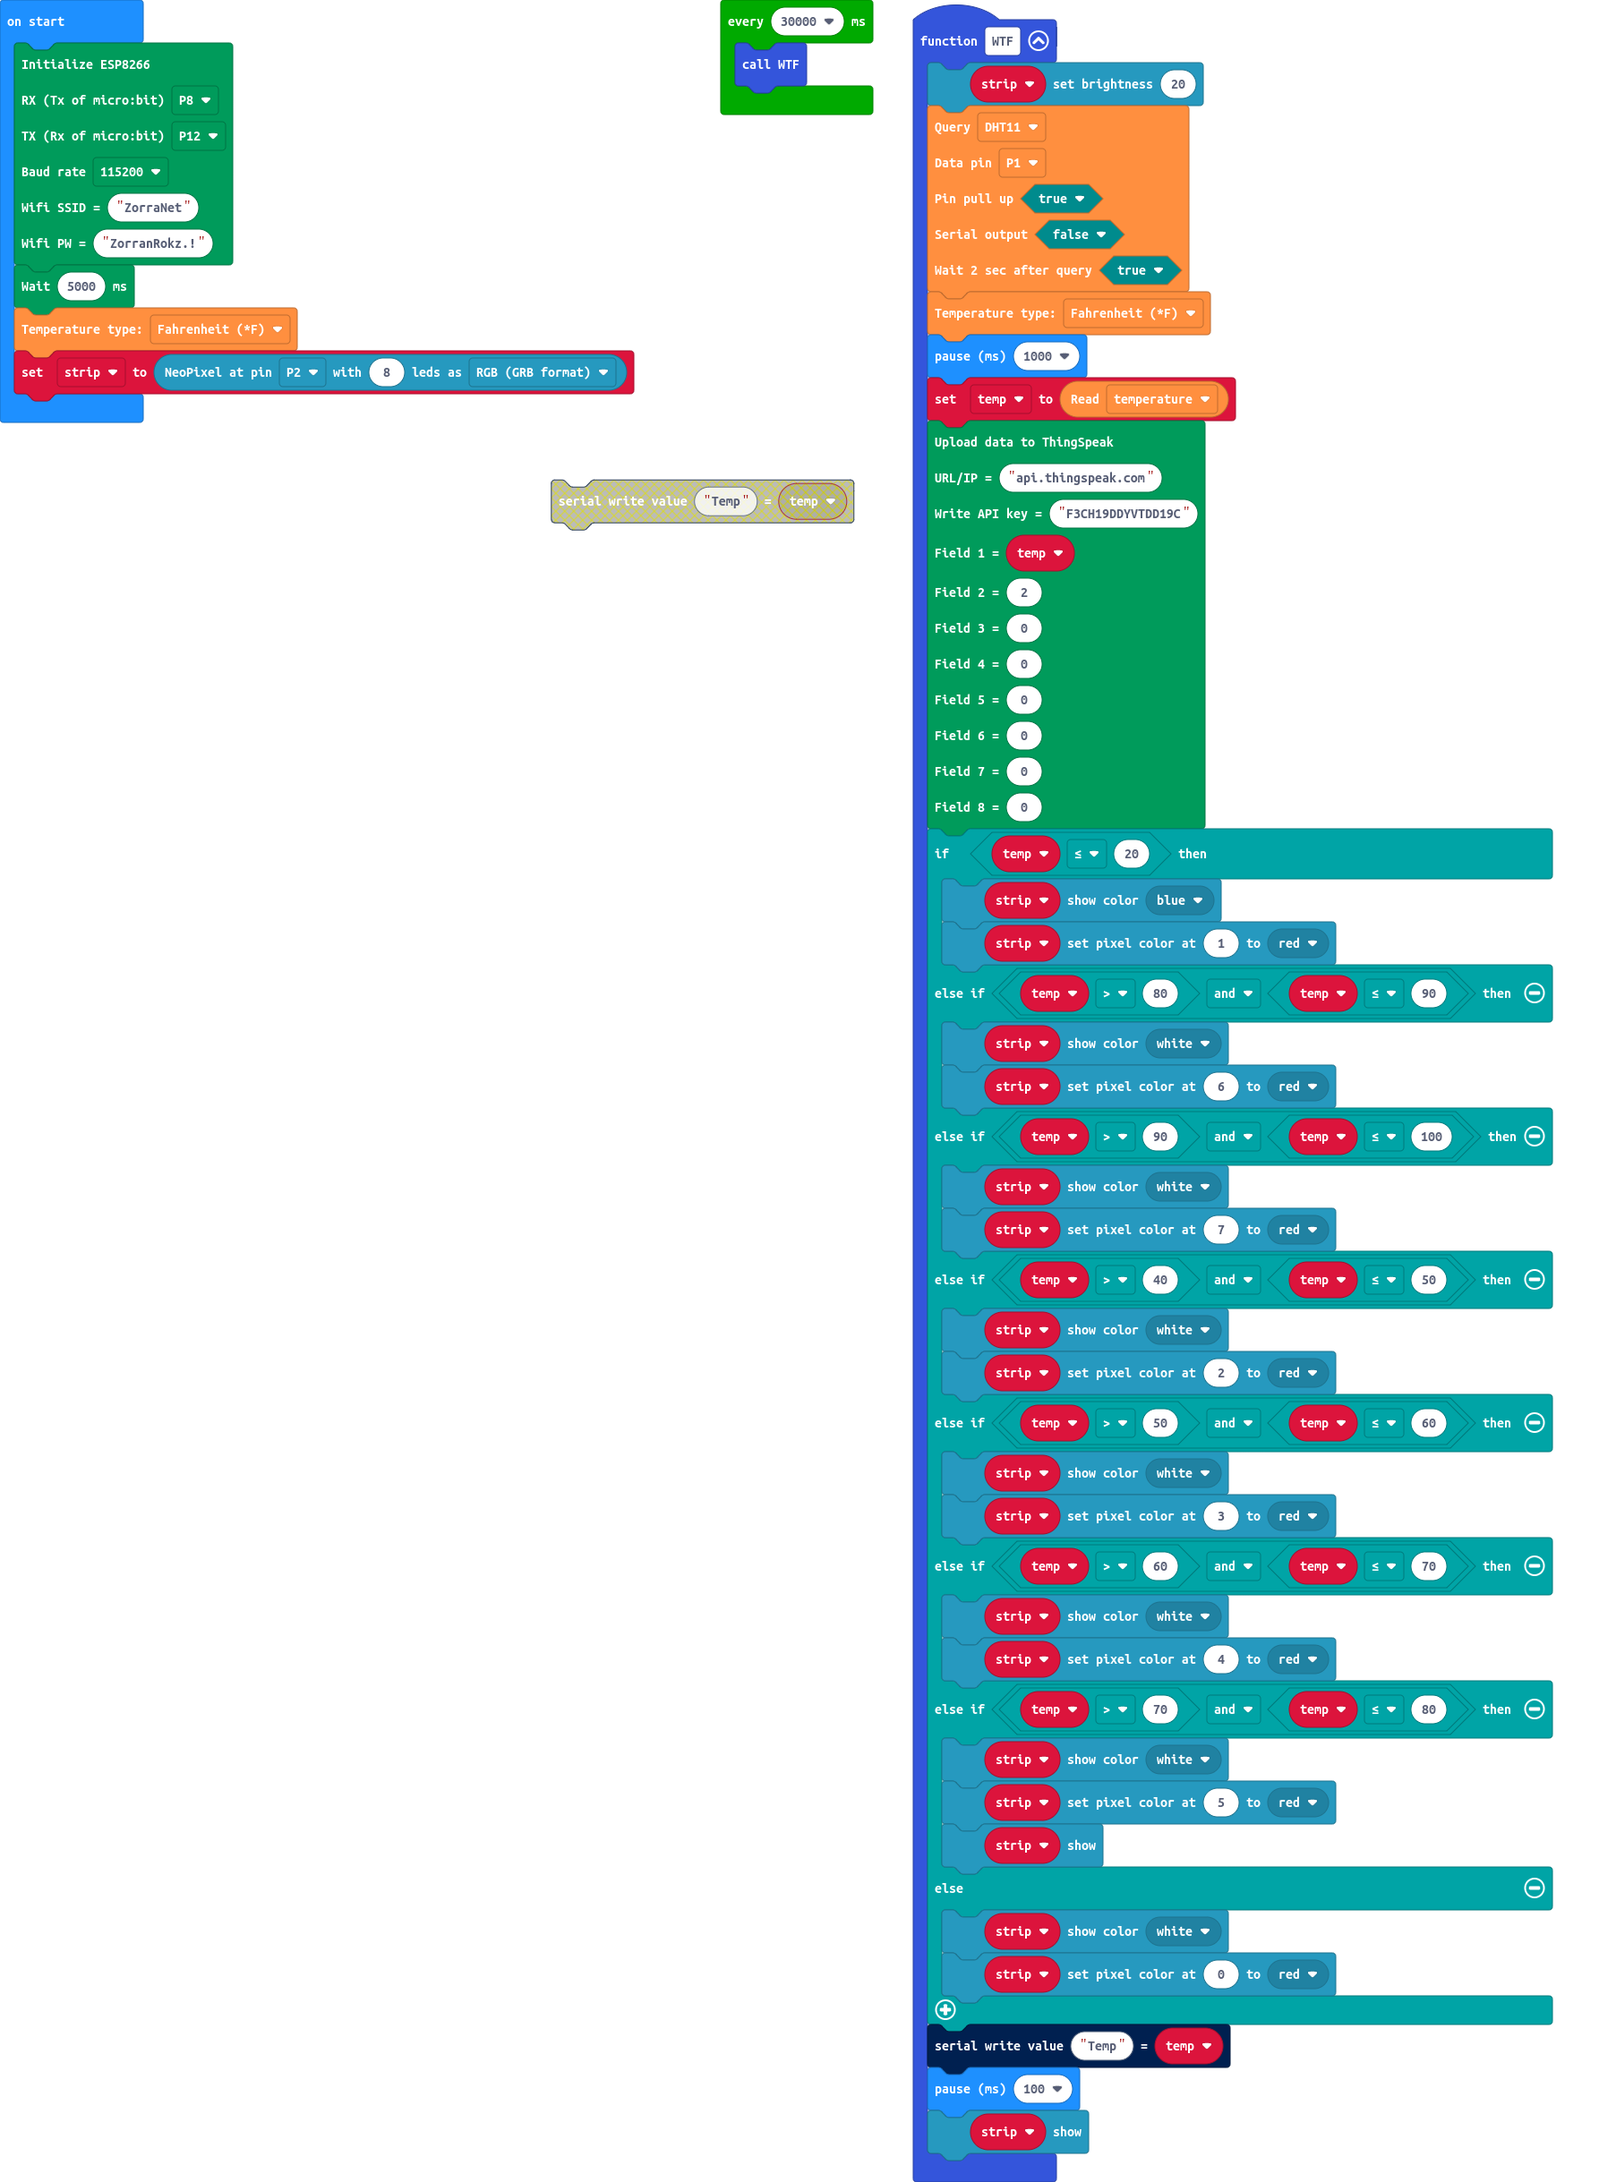
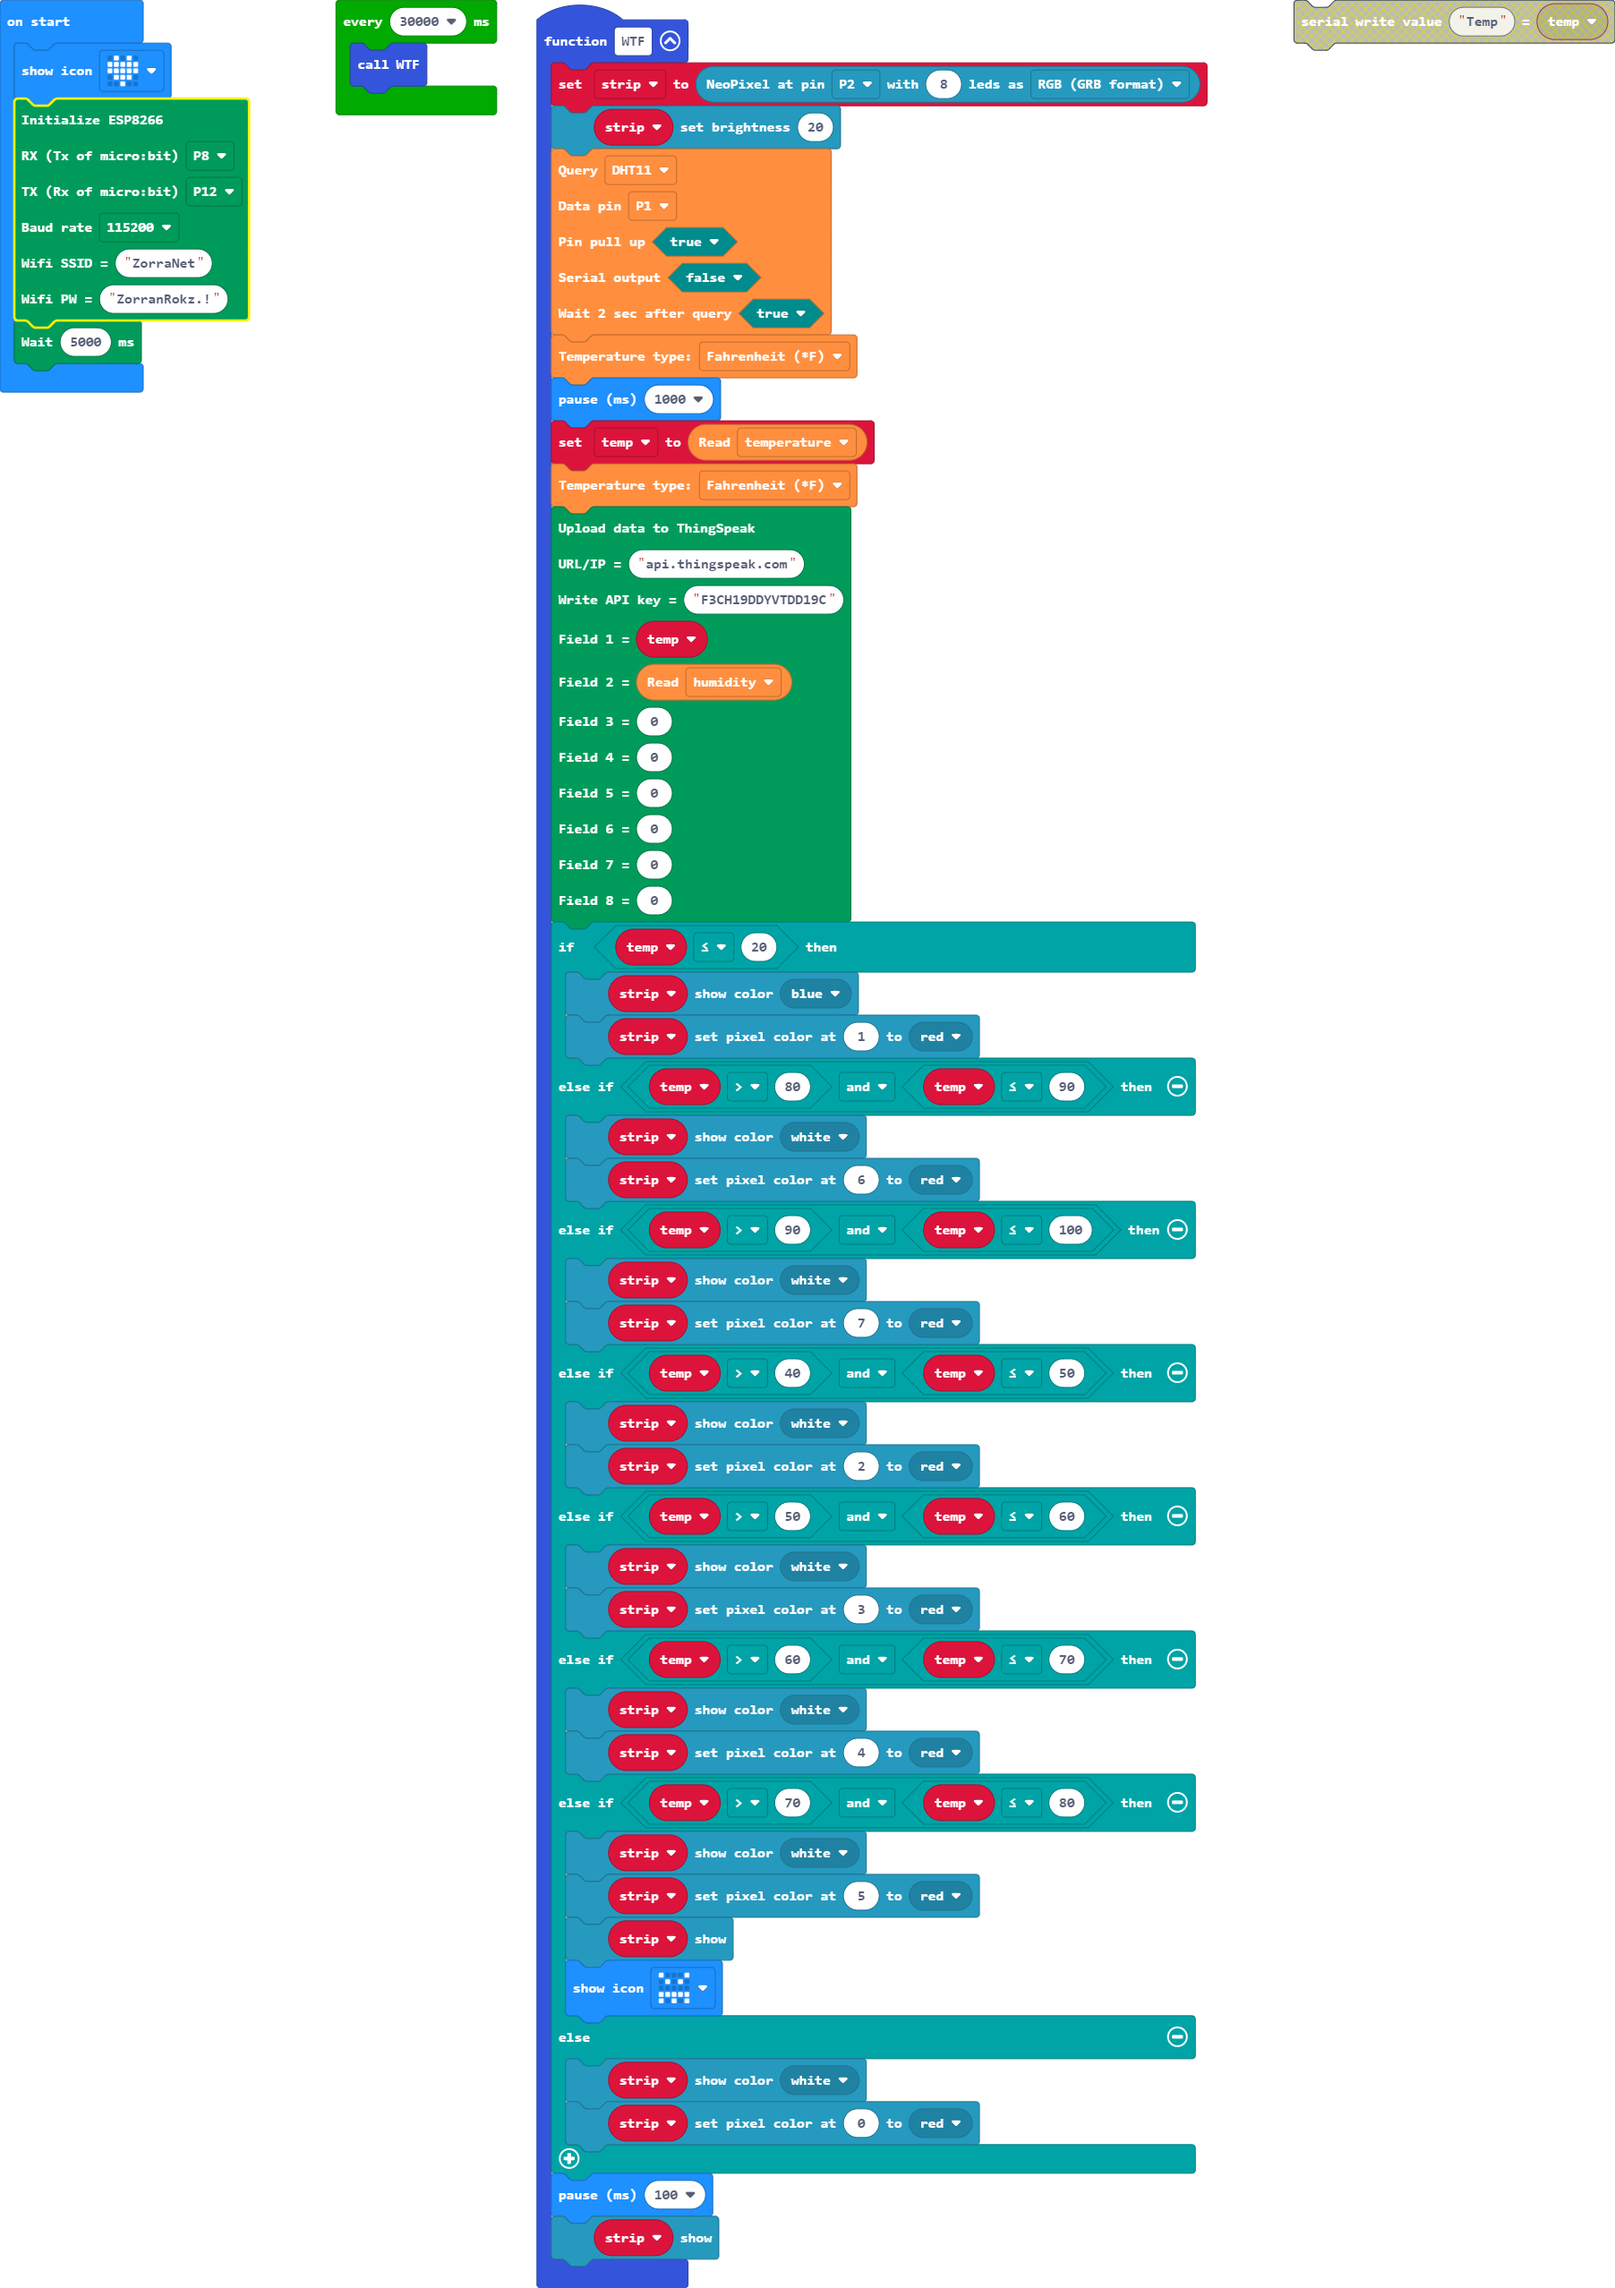
Update main.blocks, main.ts, main.py

diff --git a/main.ts b/main.ts
@@ -1,4 +1,5 @@
 function WTF () {
+    strip = neopixel.create(DigitalPin.P2, 8, NeoPixelMode.RGB)
     strip.setBrightness(20)
     dht11_dht22.queryData(
     DHTtype.DHT11,
@@ -10,11 +11,12 @@ function WTF () {
     dht11_dht22.selectTempType(tempType.fahrenheit)
     basic.pause(1000)
     temp = dht11_dht22.readData(dataType.temperature)
+    dht11_dht22.selectTempType(tempType.fahrenheit)
     ESP8266ThingSpeak.connectThingSpeak(
     "api.thingspeak.com",
     "F3CH19DDYVTDD19C",
     temp,
-    2,
+    dht11_dht22.readData(dataType.humidity),
     0,
     0,
     0,
@@ -44,16 +46,17 @@ function WTF () {
         strip.showColor(neopixel.colors(NeoPixelColors.White))
         strip.setPixelColor(5, neopixel.colors(NeoPixelColors.Red))
         strip.show()
+        basic.showIcon(IconNames.Angry)
     } else {
         strip.showColor(neopixel.colors(NeoPixelColors.White))
         strip.setPixelColor(0, neopixel.colors(NeoPixelColors.Red))
     }
-    serial.writeValue("Temp", temp)
     basic.pause(100)
     strip.show()
 }
 let temp = 0
 let strip: neopixel.Strip = null
+basic.showIcon(IconNames.Heart)
 ESP8266ThingSpeak.connectWifi(
 SerialPin.P8,
 SerialPin.P12,
@@ -62,8 +65,6 @@ BaudRate.BaudRate115200,
 "ZorranRokz.!"
 )
 ESP8266ThingSpeak.wait(5000)
-dht11_dht22.selectTempType(tempType.fahrenheit)
-strip = neopixel.create(DigitalPin.P2, 8, NeoPixelMode.RGB)
 loops.everyInterval(30000, function () {
     WTF()
 })

diff --git a/main.py b/main.py
@@ -1,0 +1,61 @@
+def WTF():
+    global temp
+    strip.set_brightness(20)
+    dht11_dht22.query_data(DHTtype.DHT11, DigitalPin.P1, True, False, True)
+    dht11_dht22.select_temp_type(tempType.FAHRENHEIT)
+    basic.pause(1000)
+    temp = dht11_dht22.read_data(dataType.TEMPERATURE)
+    ESP8266ThingSpeak.connect_thing_speak("api.thingspeak.com",
+        "F3CH19DDYVTDD19C",
+        temp,
+        2,
+        0,
+        0,
+        0,
+        0,
+        0,
+        0)
+    basic.show_icon(IconNames.CONFUSED)
+    if temp <= 20:
+        strip.show_color(neopixel.colors(NeoPixelColors.BLUE))
+        strip.set_pixel_color(1, neopixel.colors(NeoPixelColors.RED))
+    elif temp > 80 and temp <= 90:
+        strip.show_color(neopixel.colors(NeoPixelColors.WHITE))
+        strip.set_pixel_color(6, neopixel.colors(NeoPixelColors.RED))
+    elif temp > 90 and temp <= 100:
+        strip.show_color(neopixel.colors(NeoPixelColors.WHITE))
+        strip.set_pixel_color(7, neopixel.colors(NeoPixelColors.RED))
+    elif temp > 40 and temp <= 50:
+        strip.show_color(neopixel.colors(NeoPixelColors.WHITE))
+        strip.set_pixel_color(2, neopixel.colors(NeoPixelColors.RED))
+    elif temp > 50 and temp <= 60:
+        strip.show_color(neopixel.colors(NeoPixelColors.WHITE))
+        strip.set_pixel_color(3, neopixel.colors(NeoPixelColors.RED))
+    elif temp > 60 and temp <= 70:
+        strip.show_color(neopixel.colors(NeoPixelColors.WHITE))
+        strip.set_pixel_color(4, neopixel.colors(NeoPixelColors.RED))
+    elif temp > 70 and temp <= 80:
+        strip.show_color(neopixel.colors(NeoPixelColors.WHITE))
+        strip.set_pixel_color(5, neopixel.colors(NeoPixelColors.RED))
+        strip.show()
+    else:
+        strip.show_color(neopixel.colors(NeoPixelColors.WHITE))
+        strip.set_pixel_color(0, neopixel.colors(NeoPixelColors.RED))
+    basic.pause(100)
+    strip.show()
+    basic.show_icon(IconNames.TSHIRT)
+temp = 0
+strip: neopixel.Strip = None
+ESP8266ThingSpeak.connect_wifi(SerialPin.P8,
+    SerialPin.P12,
+    BaudRate.BAUD_RATE115200,
+    "DSUconsole",
+    "DixieStateConsole")
+ESP8266ThingSpeak.wait(5000)
+dht11_dht22.select_temp_type(tempType.FAHRENHEIT)
+strip = neopixel.create(DigitalPin.P2, 8, NeoPixelMode.RGB)
+basic.show_icon(IconNames.HEART)
+
+def on_every_interval():
+    WTF()
+loops.every_interval(30000, on_every_interval)
